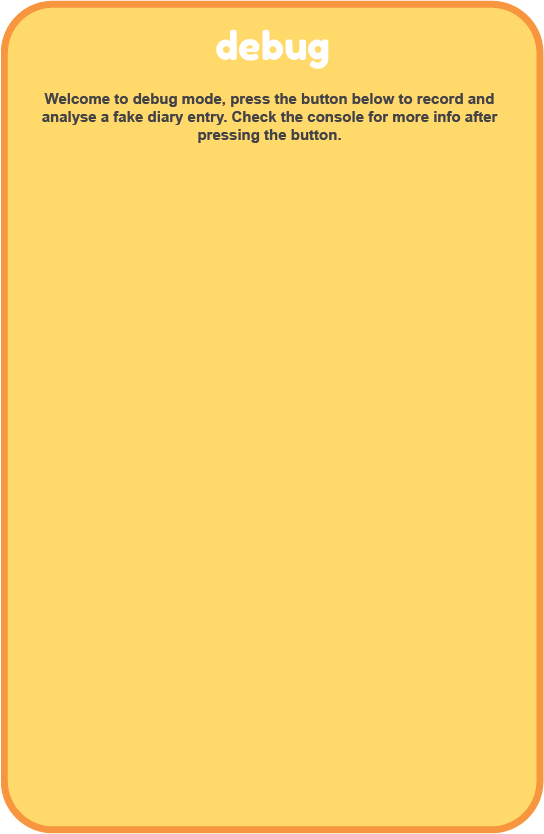
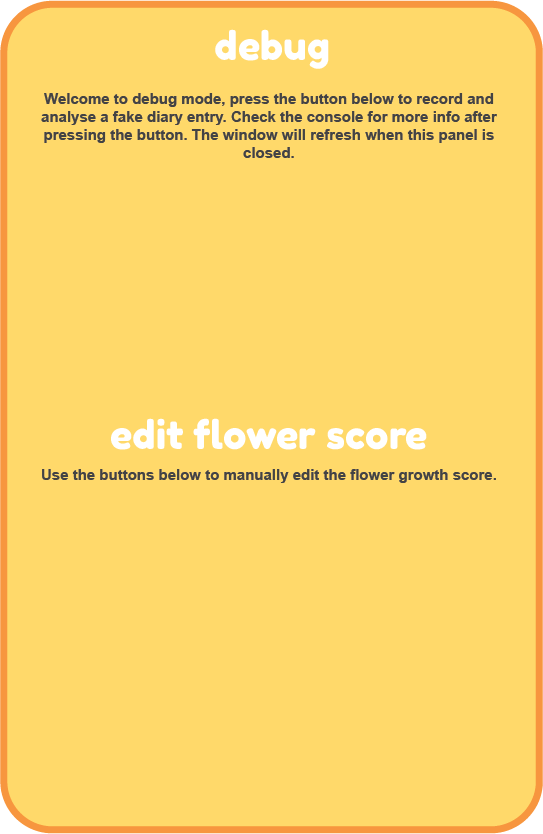
added flower growth buttons to the debug panel

diff --git a/pi/www/js/visualisation.js b/pi/www/js/visualisation.js
@@ -59,14 +59,14 @@ var gardenPanelObj;
 var debugCodeCount = 0;
 
 var dummyEntries = [
-    "Well, today wasn/’t half bad. Woke up after a lie in and made myself some cereal which was great. No one was home considering it was the weekend so I had a whole house to myself for most of the day. I just lounged around, watched TV, played games, and just generally wasted the day away. I guess it wasn/’t productive but sometimes you just need those lazy days. But anyways, my housemate came home later in the day and cooked a huge roast dinner for us and some friends we invited round – and he cooks a mean roast. That/’s basically the day really, nothing particularly interesting but it was enjoyable.",
-    "Hey diary, just wanted to say that I had one hell of a time at Thorpe Park with some mates today. Haven/’t been in there in a long time and I almost forgot just how much I love roller coasters. One of the guys wimped out though and didn/’t go on most of the rides but oh well, he tagged along for everything else at least. Only bad thing I can think of is the long and tiring car journey, but other than that it was all pretty good. Hopefully I can go to a theme park again, I definitely miss them.",
-    "Well, I/’m pretty sure I’m in trouble at work now. Some customer was being rude and just wouldn/’t accept anything apart from a full refund. Apparently taking down one item wrong on his order warrants a full refund. We offered a refund for the one pizza which was wrong and even said he could have it on the house as well as the correct pizza, but he was so demanding. I know I shouldn/’t have told him to /“Stop complaining about everything/” but he was just aggressive, and I wasn/’t going to just take it. The customer is not always right and I hate that people say they should be.",
-    "Dear diary, I got my grades back for my mock exams today and did brilliantly. Honestly didn/’t expect that since I hate the subject but I/’ll take it. Even my sciences were good despite them being my worst subjects. Thought I/’d get my best marks in History honestly but it was near enough. Hopefully I do just as well when the real exams come but until then I shouldn’t worry. At least I did better than David though, he/’s supposedly the smartest in the year group but I think a few people outperformed him. At least he isn/’t cocky about how smart he is though. Anyway that/’s about it, goodnight!",
-    "Had quite a lazy day today, it/’s a weekend so what can I say? Parent/’s weren/’t home either since they/’re visiting my sister at university so I/’m basically home alone until the evening. I literally woke up at 3 in the afternoon and just stayed in bed on my phone. Not exactly productive but I had no plans. Mum and Dad got home by like 7 anyways and apparently my sister/’s doing fine, still stroppy as normal so nothing new there. We ordered takeaway for dinner since it was late and then we just watched TV. Well, they did, I just sat in the armchair on my phone and barely watched the show they were watching.",
-    "So, today I had one of those days where for some reason everything just annoyed me. I think it started because my housemate doesn’t know how to make a damn cup of tea, I mean, how can you not!? It’s just water and tea – and milk if you want it. And does he have to spend over an hour in the shower. We have 1 toilet between the 3 of us and I just sat there waiting, holding in my bladder for an age. The supermarket was out of bread as well which sucked, but I wouldn’t have needed bread if Martin hadn/’t dropped the entire loaf on the floor. This is basically me just ranting at this point so I/’ll just stop. It/’s just frustrating is all.",
-    "I/’ve genuinely never been a rock fan, but I was convinced to attend a Fall Out Boy concert with a group of friends and wow it was great. I/’d never been to a concert before today and wow, the atmosphere and the people. So loud but so exciting. It probably would have helped if I knew their music but because I was invited quite last minute I barely had time to even look them up. There was one song though which I had heard before so I knew the chorus at least. Guess I should give the band a listen at some point, I guess rock isn’t too bad.",
-    "Actually can/’t believe my parents had a go at me for being /‘lazy/’ when my brother does literally nothing around the house. Just because it/’s exam season for him he gets a free pass. I do the dishes, I vacuum every inch of the house, take out the trash and replace the bin bags and when they tell me to put food into the dog/’s food bowl, apparently telling them to “wait a minute” isn/’t acceptable. Just be patient for goodness sake, I/’m not even refusing. I still did it in the end anyway but still, it/’s always me isn/’t it?"
+    "Well, today wasn’t half bad. Woke up after a lie in and made myself some cereal which was great. No one was home considering it was the weekend so I had a whole house to myself for most of the day. I just lounged around, watched TV, played games, and just generally wasted the day away. I guess it wasn’t productive but sometimes you just need those lazy days. But anyways, my housemate came home later in the day and cooked a huge roast dinner for us and some friends we invited round – and he cooks a mean roast. That’s basically the day really, nothing particularly interesting but it was enjoyable.",
+    "Hey diary, just wanted to say that I had one hell of a time at Thorpe Park with some mates today. Haven’t been in there in a long time and I almost forgot just how much I love roller coasters. One of the guys wimped out though and didn’t go on most of the rides but oh well, he tagged along for everything else at least. Only bad thing I can think of is the long and tiring car journey, but other than that it was all pretty good. Hopefully I can go to a theme park again, I definitely miss them.",
+    "Well, I’m pretty sure I’m in trouble at work now. Some customer was being rude and just wouldn’t accept anything apart from a full refund. Apparently taking down one item wrong on his order warrants a full refund. We offered a refund for the one pizza which was wrong and even said he could have it on the house as well as the correct pizza, but he was so demanding. I know I shouldn’t have told him to “Stop complaining about everything” but he was just aggressive, and I wasn’t going to just take it. The customer is not always right and I hate that people say they should be.",
+    "Dear diary, I got my grades back for my mock exams today and did brilliantly. Honestly didn’t expect that since I hate the subject but I’ll take it. Even my sciences were good despite them being my worst subjects. Thought I’d get my best marks in History honestly but it was near enough. Hopefully I do just as well when the real exams come but until then I shouldn’t worry. At least I did better than David though, he’s supposedly the smartest in the year group but I think a few people outperformed him. At least he isn’t cocky about how smart he is though. Anyway that’s about it, goodnight!",
+    "Had quite a lazy day today, it’s a weekend so what can I say? Parent’s weren’t home either since they’re visiting my sister at university so I’m basically home alone until the evening. I literally woke up at 3 in the afternoon and just stayed in bed on my phone. Not exactly productive but I had no plans. Mum and Dad got home by like 7 anyways and apparently my sister’s doing fine, still stroppy as normal so nothing new there. We ordered takeaway for dinner since it was late and then we just watched TV. Well, they did, I just sat in the armchair on my phone and barely watched the show they were watching.",
+    "So, today I had one of those days where for some reason everything just annoyed me. I think it started because my housemate doesn’t know how to make a damn cup of tea, I mean, how can you not!? It’s just water and tea – and milk if you want it. And does he have to spend over an hour in the shower. We have 1 toilet between the 3 of us and I just sat there waiting, holding in my bladder for an age. The supermarket was out of bread as well which sucked, but I wouldn’t have needed bread if Martin hadn’t dropped the entire loaf on the floor. This is basically me just ranting at this point so I’ll just stop. It’s just frustrating is all.",
+    "I’ve genuinely never been a rock fan, but I was convinced to attend a Fall Out Boy concert with a group of friends and wow it was great. I’d never been to a concert before today and wow, the atmosphere and the people. So loud but so exciting. It probably would have helped if I knew their music but because I was invited quite last minute I barely had time to even look them up. There was one song though which I had heard before so I knew the chorus at least. Guess I should give the band a listen at some point, I guess rock isn’t too bad.",
+    "Actually can’t believe my parents had a go at me for being ‘lazy’ when my brother does literally nothing around the house. Just because it’s exam season for him he gets a free pass. I do the dishes, I vacuum every inch of the house, take out the trash and replace the bin bags and when they tell me to put food into the dog’s food bowl, apparently telling them to “wait a minute” isn’t acceptable. Just be patient for goodness sake, I’m not even refusing. I still did it in the end anyway but still, it’s always me isn’t it?"
 ];
 
 //Load images
@@ -96,6 +96,10 @@ loader
     .add('infoBtn', "assets/infoBtn.png")
     .add('debugBtn', "assets/debugBtn.png")
     .add('makeEntryBtn', "assets/makeEntryBtn.png")
+    .add('add1Btn', "assets/add1Btn.png")
+    .add('add10Btn', "assets/add10Btn.png")
+    .add('minus1Btn', "assets/minus1Btn.png")
+    .add('minus10Btn', "assets/minus10Btn.png")
     .add('closeBtn', 'assets/closeBtn.png')
     .add('leftBtn', 'assets/leftBtn.png')
     .add('rightBtn', 'assets/rightBtn.png')
@@ -708,13 +712,54 @@ function debugPanel(){
     //create entry button
     this.entrySprite = new Sprite(loader.resources.makeEntryBtn.texture);
     this.entrySprite.anchor.set(0.5);
-    this.entrySprite.y = 0;
+    this.entrySprite.y = -150;
     this.sprite.addChild(this.entrySprite);
     this.entrySprite.interactive = true;
     this.entrySprite.on('pointerdown', function(e){
         dummyEntryIndex = Math.floor(Math.random() * dummyEntries.length);
         console.log("Inserted entry: " + dummyEntries[dummyEntryIndex]);
         socket.emit('fakeEntry', dummyEntries[dummyEntryIndex]);
+    });
+    
+    //create flower score buttons
+    //plus 1 button
+    this.plus1Sprite = new Sprite(loader.resources.add1Btn.texture);
+    this.plus1Sprite.anchor.set(0.5);
+    this.plus1Sprite.position.set(70, 150);
+    this.sprite.addChild(this.plus1Sprite);
+    this.plus1Sprite.interactive = true;
+    this.plus1Sprite.on('pointerdown', function(e){
+        socket.emit('adjustFlower', 1);
+    });
+    
+    //plus 10 button
+    this.plus10Sprite = new Sprite(loader.resources.add10Btn.texture);
+    this.plus10Sprite.anchor.set(0.5);
+    this.plus10Sprite.position.set(170, 150);
+    this.sprite.addChild(this.plus10Sprite);
+    this.plus10Sprite.interactive = true;
+    this.plus10Sprite.on('pointerdown', function(e){
+        socket.emit('adjustFlower', 10);
+    });
+    
+    //minus 1 button
+    this.minus1Sprite = new Sprite(loader.resources.minus1Btn.texture);
+    this.minus1Sprite.anchor.set(0.5);
+    this.minus1Sprite.position.set(-70, 150);
+    this.sprite.addChild(this.minus1Sprite);
+    this.minus1Sprite.interactive = true;
+    this.minus1Sprite.on('pointerdown', function(e){
+        socket.emit('adjustFlower', -1);
+    });
+    
+    //minus 10 button
+    this.minus10Sprite = new Sprite(loader.resources.minus10Btn.texture);
+    this.minus10Sprite.anchor.set(0.5);
+    this.minus10Sprite.position.set(-170, 150);
+    this.sprite.addChild(this.minus10Sprite);
+    this.minus10Sprite.interactive = true;
+    this.minus10Sprite.on('pointerdown', function(e){
+        socket.emit('adjustFlower', -10);
     });
         
     //create close button
@@ -724,6 +769,7 @@ function debugPanel(){
     this.sprite.addChild(this.closeSprite);
     this.closeSprite.interactive = true;
     this.closeSprite.on('pointerdown', function(e) {
+        window.location.reload(true);
         debugPanelObj.hide();
     });
         

diff --git a/pi/push-mongo-DB.js b/pi/push-mongo-DB.js
@@ -69,7 +69,6 @@ exports.PushtoMongoGrowFlower = function(score){
         if (err) throw err; //throw error if can't connect
         
         var dbo = db.db('dat602');
-        console.log(score);
         dbo.collection("ActiveFlower").find({}).toArray((err, result) => { //get active flower data
             if (err) throw err;
             if(result.length < 1) { //if it doesnt exist, return.

diff --git a/pi/server.js b/pi/server.js
@@ -82,6 +82,10 @@ io.on("connection", (socket) => {
     socket.on('fakeEntry', (data) => {
         beginAnalysis(data);
     });
+    
+    socket.on('adjustFlower', (data) => {
+        mongoDB.PushtoMongoGrowFlower(data);
+    });
 
 
 });
